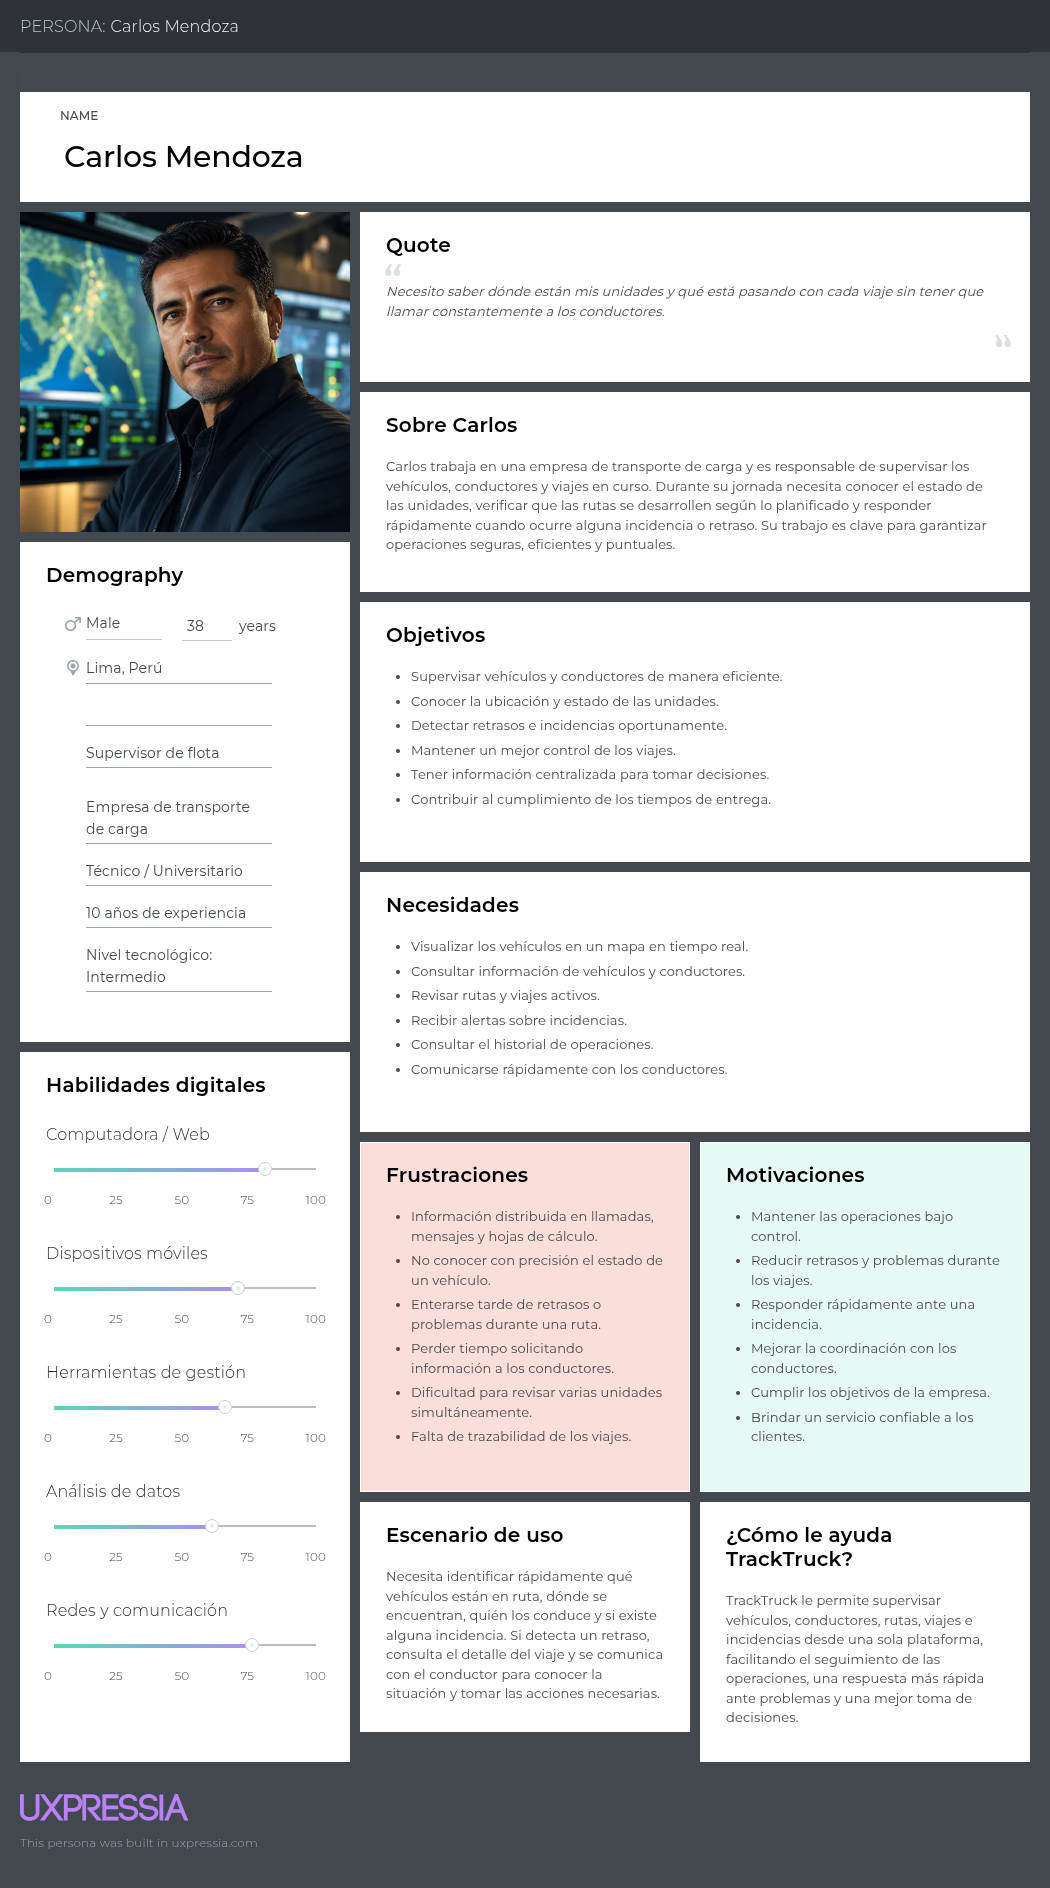
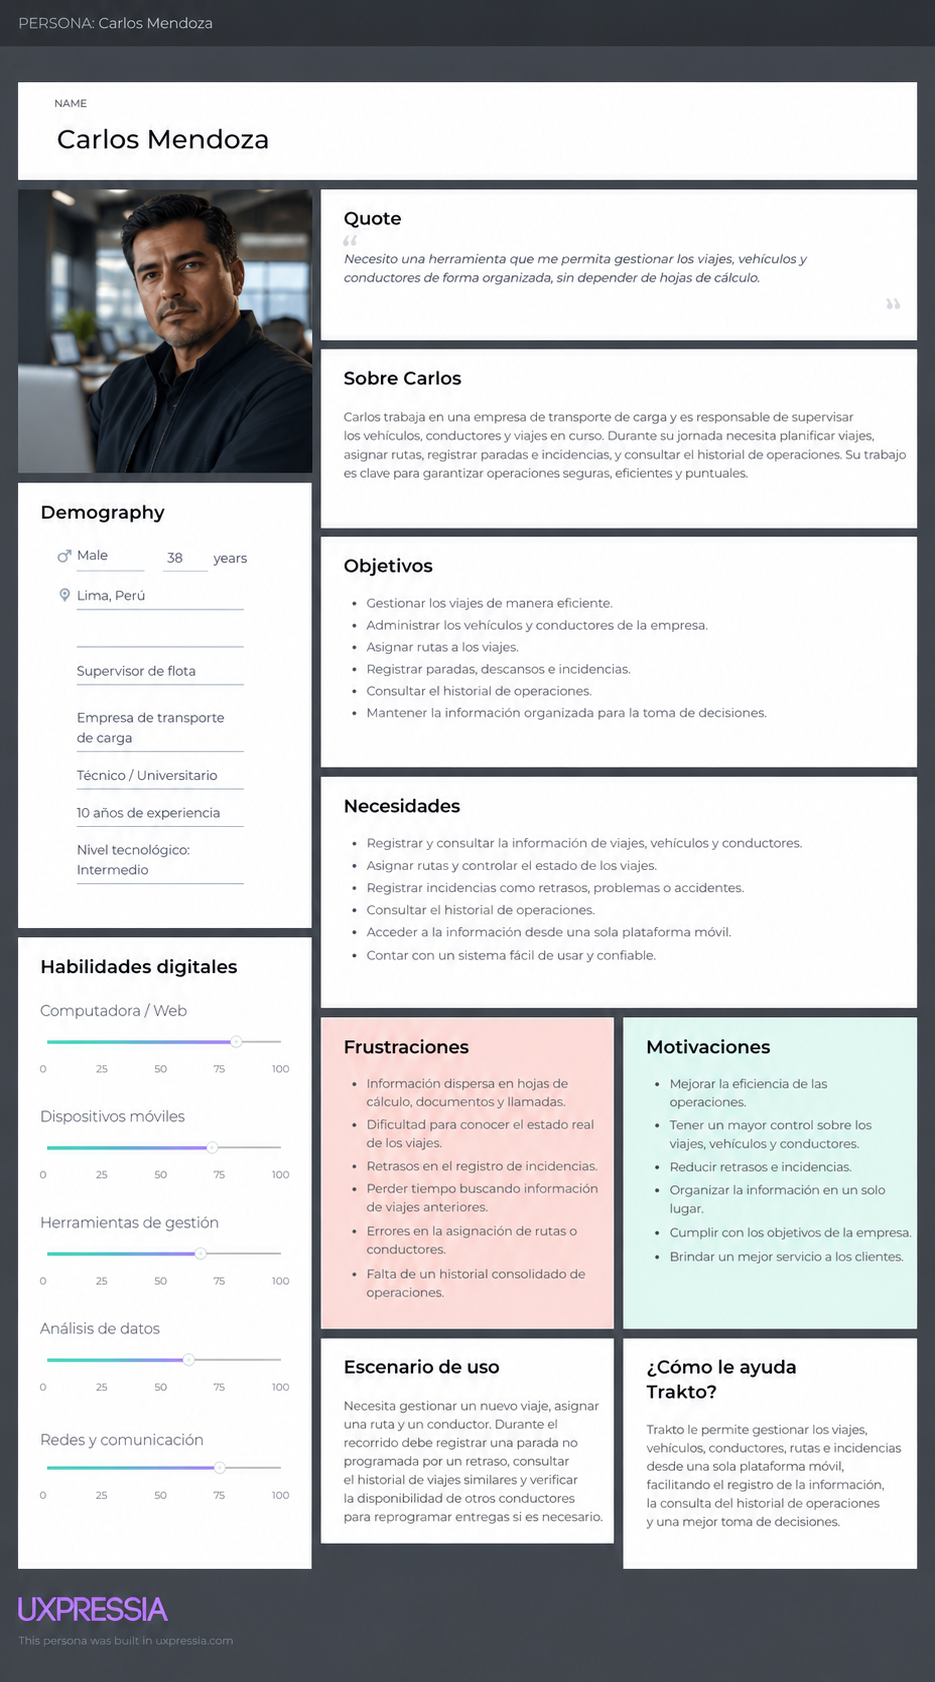
doc: remove duplicate section header and add empathy map and updated images

diff --git a/README.md b/README.md
@@ -149,9 +149,6 @@ Asimismo, Trakto permite consultar el historial de conductores, vehículos y via
 
 ### 1.2.1. Antecedentes y problemática
 
-### 1.2.1. Antecedentes y problemática
-
-[svg](https://github.com/1ACC0238-2620-4939/Report/tree/feature/dazai#121-antecedentes-y-problem%C3%A1tica)
 
 **Who (¿Quién?) - ¿A quiénes afecta el problema?**  
 Empresas de transporte de carga y operadores logísticos que necesitan gestionar sus viajes, vehículos, conductores, rutas e incidencias durante sus operaciones.
